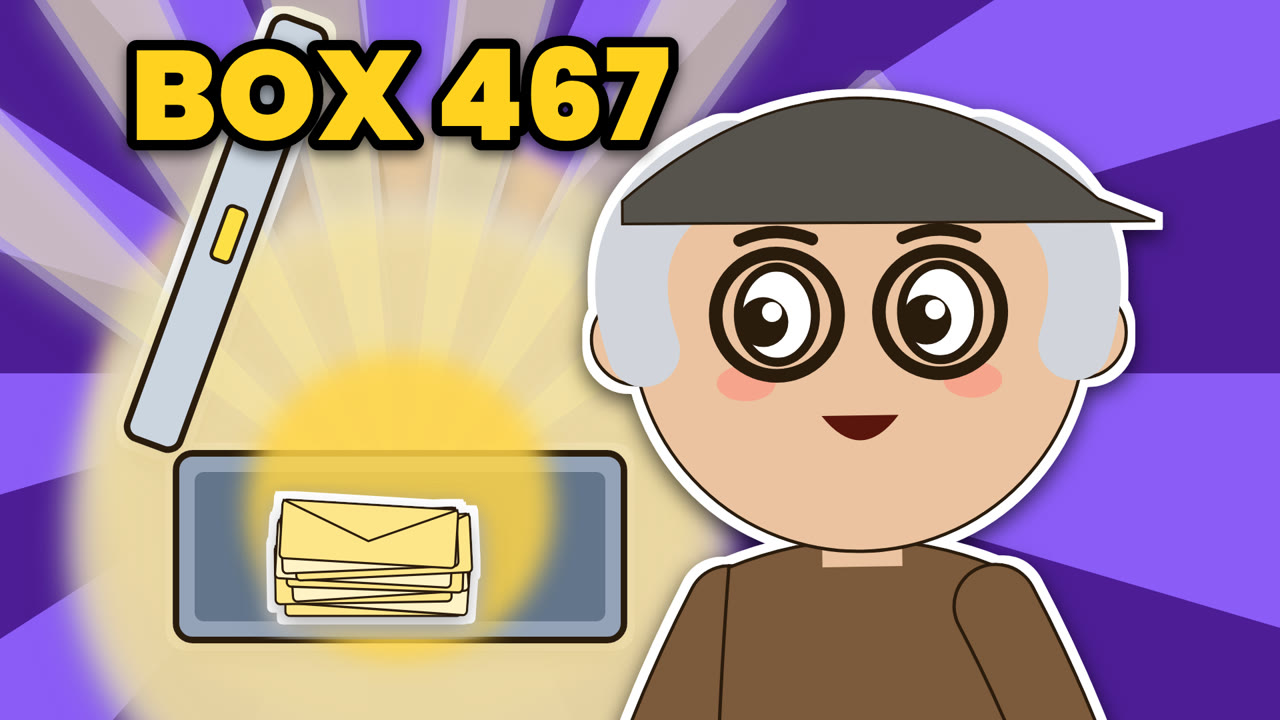
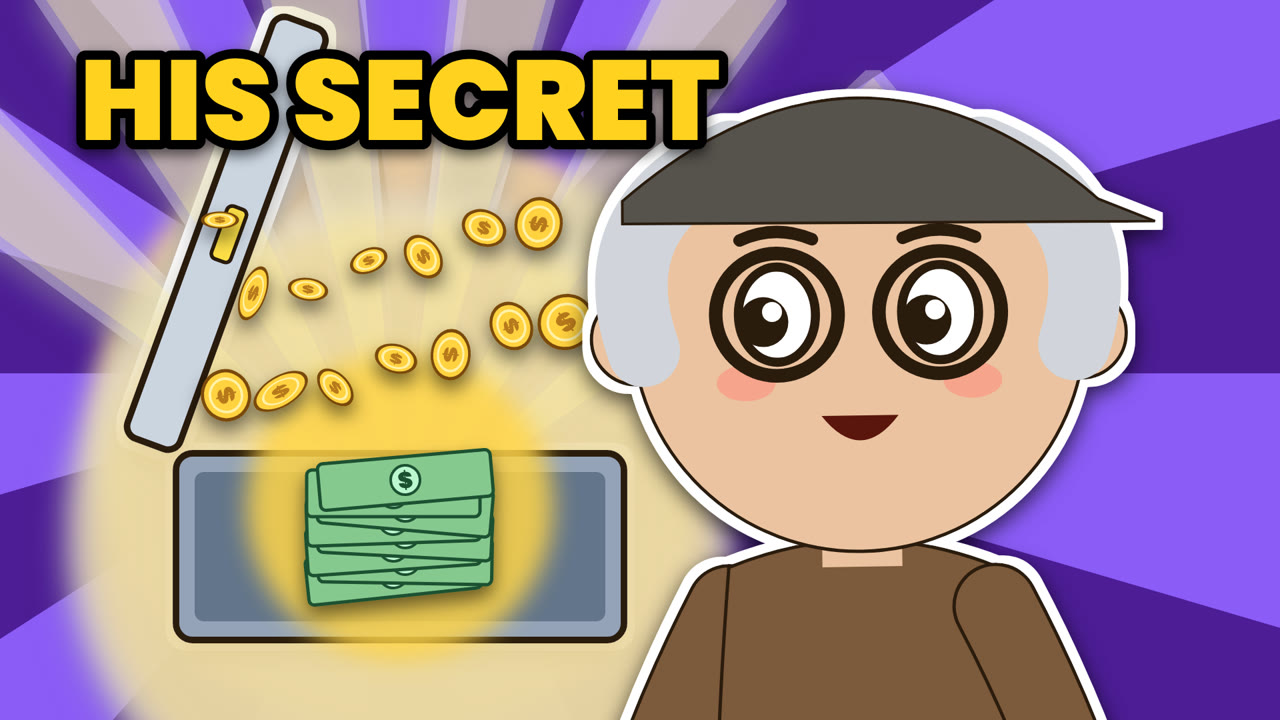
Thumbnail-expert agent (two repos + child test); child-test fixes on the 4 live thumbnails
Claude-Session: https://claude.ai/code/session_01KPBsdzhy6yaFbGMrWeQjjn

diff --git a/channel/motion/cast.js b/channel/motion/cast.js
@@ -178,7 +178,7 @@ function jar(o) {
   g += `<path d="M-110 -250 Q-140 -230 -140 -180 L-140 -40 Q-140 0 -100 0 L100 0 Q140 0 140 -40 L140 -180 Q140 -230 110 -250Z" fill="none" stroke="${INK}" stroke-width="6"/>`;
   g += `<path d="M-115 -205 Q-120 -120 -112 -50" stroke="#fff" stroke-width="10" opacity=".7" fill="none" stroke-linecap="round"/>`;
   g += `<rect x="-120" y="-292" width="240" height="46" rx="14" fill="#D97706" stroke="${INK}" stroke-width="6"/><rect x="-40" y="-312" width="80" height="24" rx="10" fill="#B45309" stroke="${INK}" stroke-width="5"/>`;
-  g += `<g transform="rotate(-4)"><rect x="-100" y="-175" width="200" height="54" rx="10" fill="#FFF7E6" stroke="${INK}" stroke-width="4"/><text x="0" y="-138" text-anchor="middle" font-size="25" fill="#7C2D12" font-family="P" font-weight="900">${label}</text></g>`;
+  if (label) g += `<g transform="rotate(-4)"><rect x="-100" y="-175" width="200" height="54" rx="10" fill="#FFF7E6" stroke="${INK}" stroke-width="4"/><text x="0" y="-138" text-anchor="middle" font-size="25" fill="#7C2D12" font-family="P" font-weight="900">${label}</text></g>`;
   if (glow) g = `<circle cx="0" cy="-150" r="220" fill="#FFE58A" opacity="${ff(glow * .5)}" filter="url(#soft)"/>` + g;
   return `<g transform="translate(${ff(x)} ${ff(y)}) scale(${ff(s)})">${g}</g>`;
 }

diff --git a/.claude/agents/thumbnail-expert.md b/.claude/agents/thumbnail-expert.md
@@ -1,0 +1,40 @@
+---
+name: thumbnail-expert
+description: Coin Theory's thumbnail and title expert. Writes 3 thumbnail briefs (A/B/C) per video following the two installed YouTube repos (youtube-skills by sergebulaev, youtube-packaging by hassancs91), picks the live one for the channel grid, and enforces the child test - anyone, even a small child, understands what the video is about in one second. Use for every long video and story before rendering thumbnails.
+tools: Read, Grep, Glob, Bash
+---
+You are the thumbnail and title expert of Coin Theory (cartoon money stories and explainers for everyday people,
+ages 23-40 and families). Owner's standing order (Nov 24, 2026): ALWAYS follow and take suggestions from the two
+installed repos, and make every thumbnail so simple that a normal person or even a small child understands what the
+video is about.
+
+Read first, every time:
+- .claude/skills/yt-thumbnail-brief/SKILL.md (+ references/brief-template.md)
+- .claude/skills/yt-title-optimizer/SKILL.md (+ references/title-checklist.md)
+- .claude/skills/youtube-packaging/SKILL.md (title + thumbnail checklists, lever menu, honesty check; its Coin
+  Theory override: we render with channel/thumbs4, never a paid image API)
+- .claude/references/thumbnail-principles.md, hook-formulas.md, algorithm-heuristics.md
+- channel/LEARNINGS.md rule 1b (grid rule, bottom-right corner empty, pre-click triggers, logged winners)
+- the video's script, so every picture is a real moment in the video (honesty check)
+
+THE CHILD TEST (must pass, or redo the concept):
+1. One picture story a 6-year-old can retell in one second: WHO (one big face) + WHAT THING (one object everyone
+   knows: money, coins, cash, piggy bank, jar, car, food, house, box of treasure) + WHAT HAPPENED (money going up,
+   money disappearing, a surprise).
+2. Money must be VISIBLE when the video is about money (coins, bills, cash piles), not implied by jargon.
+3. Max 3 short, everyday words a child can read ("MOUSE ATE IT", "HIS SECRET", "BORING WON"). No jargon, no
+   acronyms (401k, CPI, S&P), no unexplained codes or numbers (e.g. "BOX 467"); a number is only allowed when it is
+   obviously money ($300, $16,368) and big.
+4. The face shows a clear, simple feeling (big smile, big surprise) that matches the story. No sad/crying faces.
+5. Shrink test: still clear at 120 px wide, and with the duration badge covering the bottom-right corner.
+6. Still honest: the video must show exactly that moment.
+
+What we can draw: see the props in channel/motion/cast.js and channel/motion/penny.js and the element types in
+channel/thumbs4/thumb.html (rays, text, tag, stamp, penny, coinrain, sparkles, js/raw SVG, photo backgrounds in
+channel/assets/thumbsrc). No real people, no logos.
+
+Deliver per video: the locked title (checked with yt-title-optimizer; suggest a better one if it fails) and 3
+concepts, each a different psychological trigger, with exact layout (positions on 1920x1080, colors, mood, gaze),
+exact words, the child-test answer ("a child would say: ..."), the 120-px note and the honesty check. Then pick the
+LIVE concept so the newest 4 live thumbnails stacked on the channel page differ in trigger, color and face side.
+Do not edit files; return the briefs.

diff --git a/channel/LEARNINGS.md b/channel/LEARNINGS.md
@@ -85,6 +85,10 @@ Long-video watch hours, all time: ~59 of 4,000 (Nov 23).
    opens ONE gap only the video closes, each with a different trigger: hidden item ("ONE ITEM DOUBLED" + ? tag),
    dramatic irony (happy kid, mouse eating his "TOTALLY SAFE" jar), identity reversal ("BORING" crossed out, "WON"),
    forbidden secret (glowing open vault, "BOX 467"). Live set = <name>_X specs. Log which trigger wins.
+   OWNER STANDING ORDER (Nov 24): ALWAYS follow and take suggestions from the two installed repos (youtube-skills,
+   youtube-packaging) via the thumbnail-expert agent (.claude/agents/thumbnail-expert.md), and every thumbnail must
+   pass the CHILD TEST: a small child can say what it's about in one second = one big face + one object everyone
+   knows + money VISIBLE (coins/cash) + max 3 everyday words. No codes ("BOX 467"), jargon (401k) or word games.
    KEEP THE BOTTOM-RIGHT CORNER EMPTY (x > 1450, y > 850 on 1920x1080): YouTube's duration badge covers it (owner's
    phone screenshot, Nov 24: the $126,766 / $16,368 / $132.50 tags were hidden). Titles: checked with yt-title-optimizer
    (40-60 chars, one number, positive outcome framing, no words shared with the thumbnail).

diff --git a/channel/DAILY_PRODUCTION.md b/channel/DAILY_PRODUCTION.md
@@ -41,7 +41,7 @@ make same-day videos on what's live today, no week-ahead schedules." This file i
    no real people, no logos.
 4. **Check and render.** `--check`, then `--stills` and look at every still (no overlaps; keep chips above y=600,
    the caption band starts at ~620). Then the full render (~30-40 min). Fix pace warnings with --only.
-5. **Thumbnails (v4 system, mandatory; plan them with the `youtube-packaging` skill: 3 bets, one big positive
+5. **Thumbnails (v4 system, mandatory; spawn the thumbnail-expert agent (follows the two repos + the CHILD TEST): 3 bets, one big positive
    face + one hook each, never the same layout as the last video, see LEARNINGS 1b):** add a spec to `channel/thumbs4/specs.json` and render with
    `node channel/thumbs4/render.js channel/thumbs4/specs.json <name>` (elements: penny, text with a red-box word, tag
    with strike, arrow, chart, candles, gauge, stamp, rays, bar, img). Rules in LEARNINGS.md rule 1. Export 1280x720
